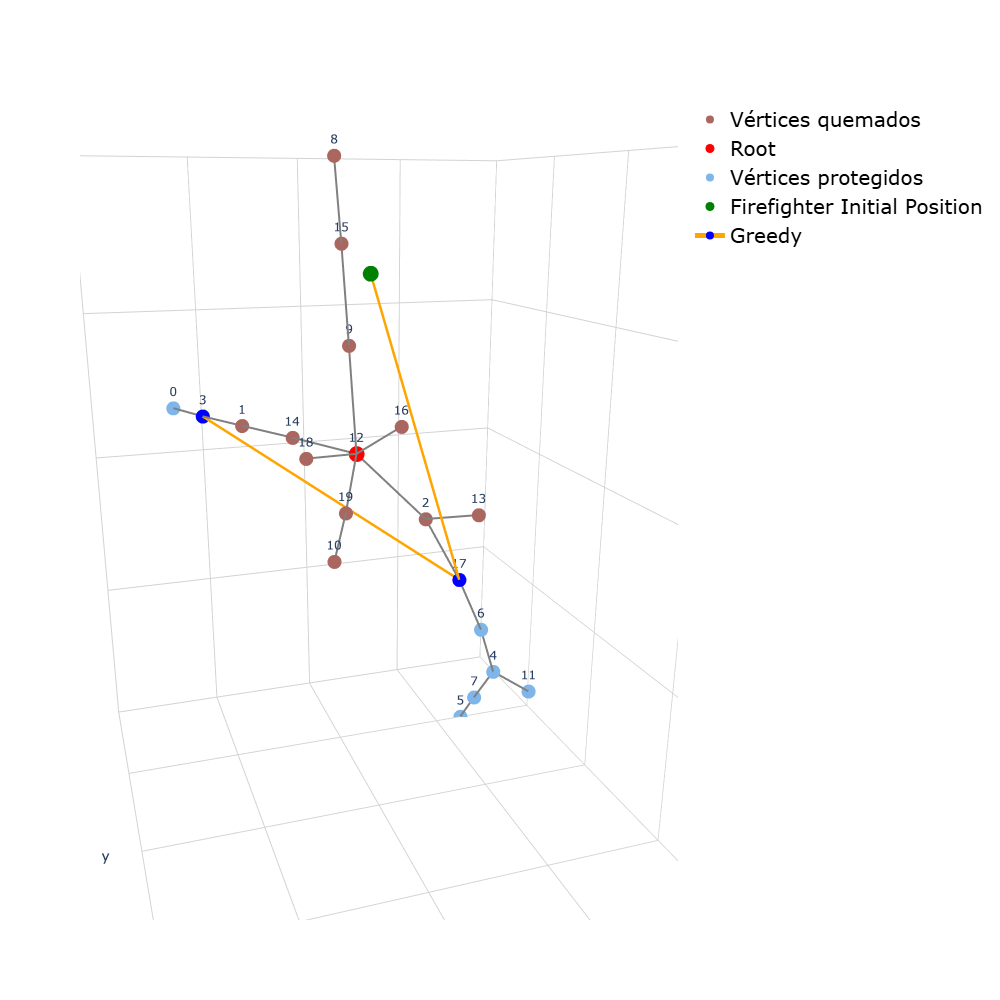
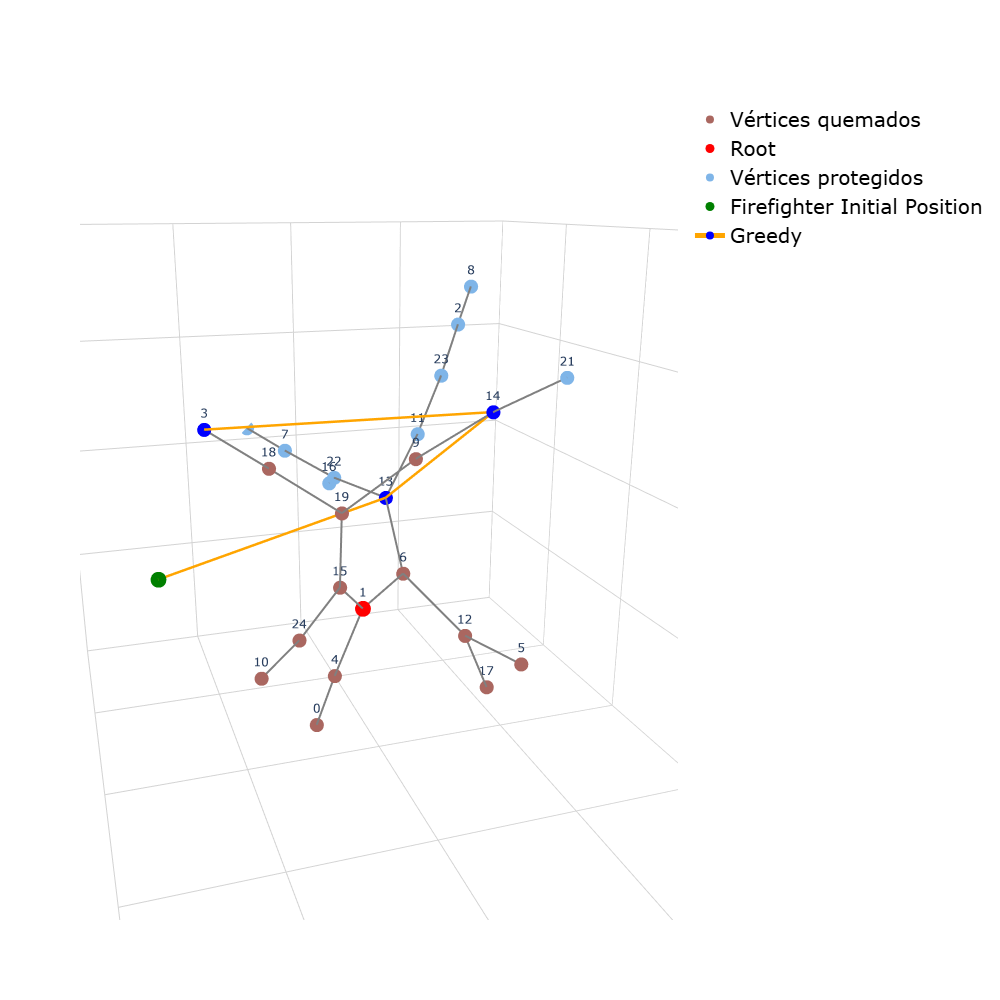
Running recreation for exp id 10

diff --git a/recreation.py b/recreation.py
@@ -45,7 +45,7 @@ def calculate_protected_nodes(tree, ff_route):
 
 experiment_file = "results/rollout_parallel_test_results_1_nodes.json"
 positions_file = "experiments/experiments_moving_nodes.json"
-id = 56
+id = 10
 
 experiment = load_experiment(experiment_file, id)
 experiment_data = load_data(positions_file, id)
